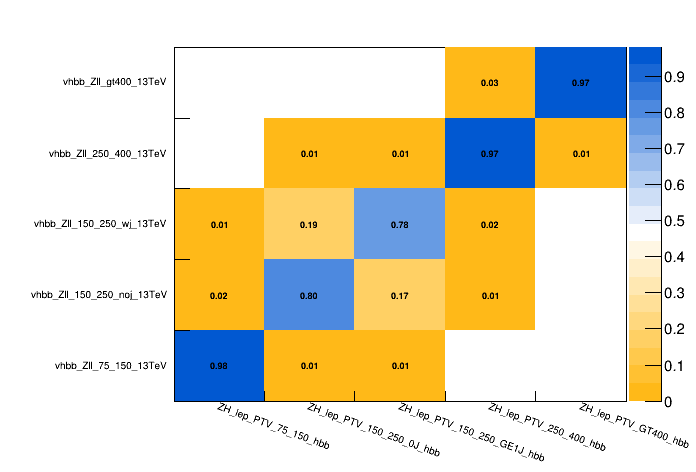
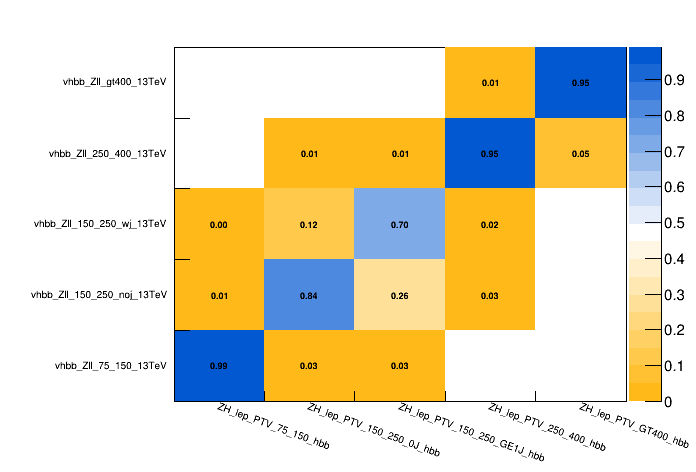
A bit more pedagogy, switching migration matrix normalizaion

diff --git a/docs/tutorial2023_unfolding/unfolding_exercise.md b/docs/tutorial2023_unfolding/unfolding_exercise.md
@@ -16,23 +16,23 @@ cd combine-unfolding-tutorial-2023
 
 The hands-on exercise is split into seven parts: 
 
-1) Simple Unfolding Experiment
+1) "Simple" Unfolding Experiment
 
 2) Producing the Migration matrix from the datacards
 
 3) Advanced Unfolding with more detector-level information and control regions
 
-4) Extract the expected intervals
+4) Extracting the expected intervals
 
-5) Impacts for multiple POIs
+5) Producing Impacts for multiple POIs
 
 6) Unfold to the generator-level quantities 
    
-7) Extract POI correlations from the FitDiagnostics output
+7) Extracting POI correlations from the FitDiagnostics output
 
  > Throughout the tutorial there are a number of questions and exercises for you to complete. These are shown in the boxes like this one. 
 
-Note that some additional information on unfolding in `Combine` are available [here](https://cms-analysis.github.io/HiggsAnalysis-CombinedLimit/part3/regularisation/), which also includes recommendations on regularisation techniques and when to use it, which is not discussed in this tutorial at all. 
+Note that some additional information on unfolding in `Combine` are available [here](https://cms-analysis.github.io/HiggsAnalysis-CombinedLimit/part3/regularisation/), which also includes some information on regularization, which is not discussed in this tutorial. 
   
 ## Analysis overview
 
@@ -43,13 +43,13 @@ The measurement is performed within the Simplified Template Cross Section (STXS)
 
 ![](figures/simplifiedXS_VH_1_2.png) 
 
-Note that for this STXS measurement, as well as measuring the cross-section as a function of the $p_{T}$ of the vector boson, the measurement includes some information on the number of additional jets and is performed over multiple different production modes, for different production processes. However, it is common to focus on a single distribution (e.g. $p_{T}$ for a signle process, e.g. $t\bar{t}$).
+Note that for this STXS measurement, as well as measuring the cross-section as a function of the $p_{T}$ of the vector boson, the measurement includes some information on the number of additional jets and is performed over multiple different production modes, for different production processes. However, it is common to focus on a single distribution (e.g. $p_{T}$) for a signle process, (e.g. $t\bar{t}$).
 
 In this tutorial we will focus on the ZH production, with the Z boson decaying to charged leptons, and Higgs boson reconstructed with the resolved $b\bar{b}$ pair. We will also use only a part of the Run 2 categories, we will not achieve the same sensitivity as the full analysis. Note that ggZH and ZH production modes are combined in the fit, since it is not possible to resolve them at this stage of the analysis. The STXS categories are defined independently of the Higgs decay channel, to streamline the combinations of the cross section measurement. 
 
 In the first part of the tutorial, we will setup a relatively simple unfolding, where there is a single detector-level bin for every generator-level bin we are trying to measure. We will then perform a blind analysis using this setup to see the expected sensitivity. 
 
-In this analysis, we use a series of datacards, one for each detector-level bin, implemented as a counting experiment, and then combining the datacards.    
+In this simple version of the analysis, we use a series of datacards, one for each detector-level bin, implemented as a counting experiment. We then combine the datacards for the full measurement. It is also possible to implement the same analysis as a single datacard, passing a histogram with each of the detector-level bins. Either method can be used, depending on which is more practical for the analysis being considered. 
 
 In the second part of the tutorial we will perform the same measurement with a more advanced setup, making use of differential distributions per generator-level bin we are trying to measure, as well as control regions. By providing this additional information to the fit, we are able to achieve a better and more robust unfolding result. After checking the expected sensitivity, we will take a look at the impacts and pulls of the nuisance parameters. Then we will unblind and look at the results of the measurement, produce generator-level plots and provide the correlation matrix for our measured observables.
 
@@ -82,7 +82,7 @@ You can see the contributions from various background processes, namely Z+jets, 
 
 One of the most important stages in the analysis design, is to make sure that the detector-level categories are well-chosen to target the corresponding generator-level processes.
 
-To explicitly check the correspondance between detector- and generator-level, one can plot the contributions of each of the generator-level bins in all of the detector-level bins. You can use the script provided in the tutorial git-lab page. This script uses `CombineHarvester` to loop over detector-level bins, and get the rate at which each of the signal processes (generator-level bins) contributes to that detector-level bin; which is then used to plot the migration matrix.
+To explicitly check the correspondance between detector- and generator-level, one can plot the contributions of each of the generator-level bins in all of the detector-level bins. You can use the script provided in the tutorial git-lab page. This script uses `CombineHarvester` to loop over detector-level bins, and get the rate at which each of the signal processes (generator-level bins) contributes to that detector-level bin; which is then used to plot the migration matrix. 
 
 ```shell
 python scripts/get_migration_matrix.py counting/combined_ratesOnly.txt
@@ -90,7 +90,9 @@ python scripts/get_migration_matrix.py counting/combined_ratesOnly.txt
 ```
 ![](figures/migration_matrix_zh.png) 
 
-Now that we checked the response matrix we can attempt the maximum likelihood unfolding. We can use the `multiSignalModel` physics model available in `Combine`, which assigns a parameter of interest `poi` to a process `p` within a bin `b` using the syntax `--PO 'map=b/p:poi[init, min, max]'` to linearly scale the normalisation of this process under the POI variations. To create the workspace we can run the following command: 
+The migration matrix show the generator-level bins on the x-axis and the corresponding detector-level bins on the y-axis. The entries are normalized such that the sum of all contributions for a given generator-level bin sum up to 1. With this convention, the numbers in each bin represent the probability that an event from a given generator-level bin is reconstructed in a given detector-level bin if it is reconstructed at all within the considered bins.
+
+Now that we checked the response matrix we can attempt the maximum likelihood unfolding. We can use the `multiSignalModel` physics model available in `Combine`, which assigns a parameter of interest `poi` to a process `p` within a bin `b` using the syntax `--PO 'map=b/p:poi[init, min, max]'` to linearly scale the normalisation of this process under the parameter of interest (POI) variations. To create the workspace we can run the following command: 
 ```shell
 text2workspace.py -m 125  counting/combined_ratesOnly.txt -P HiggsAnalysis.CombinedLimit.PhysicsModel:multiSignalModel  --PO verbose --PO 'map=.*/.*ZH_lep_PTV_75_150_hbb:r_zh_75_150[1,-5,5]' --PO 'map=.*/.*ZH_lep_PTV_150_250_0J_hbb:r_zh_150_250noj[1,-5,5]'  --PO 'map=.*/.*ZH_lep_PTV_150_250_GE1J_hbb:r_zh_150_250wj[1,-5,5]' --PO 'map=.*/.*ZH_lep_PTV_250_400_hbb:r_zh_250_400[1,-5,5]' --PO 'map=.*/.*ZH_lep_PTV_GT400_hbb:r_zh_gt400[1,-5,5]' -o ws_counting.root
 ```
@@ -106,7 +108,7 @@ combineTool.py -M MultiDimFit --datacard ws_counting.root --setParameters r_zh_2
 > The `--setParameters <param>=<value>` set the initial value of parameter named <param>.
 > `--redefineSignalPOIs r_zh_75_150,r_zh_150_250noj,r_zh_150_250wj,r_zh_250_400,r_zh_gt400` set the POIs to the comma-separated list, instead of the default one `r`.
 
-While the uncertainties on the POI can be extracted in multiple ways, the most robust way is to run the likelihood scans for a POI corresponding to each generator-level bin, it allows you to spot discontinuities in the likelihood shape in case of problems with the fit or the model. 
+While the uncertainties on the parameters of interest (POIs) can be extracted in multiple ways, the most robust way is to run the likelihood scans for a POI corresponding to each generator-level bin, it allows you to spot discontinuities in the likelihood shape in case of problems with the fit or the model. 
 
 ```shell
 combineTool.py -M MultiDimFit --datacard ws_counting.root -t -1 --setParameters r_zh_250_400=1,r_zh_150_250noj=1,r_zh_75_150=1,r_zh_150_250wj=1,r_zh_gt400=1 --redefineSignalPOIs r_zh_75_150,r_zh_150_250noj,r_zh_150_250wj,r_zh_250_400,r_zh_gt400 --algo=grid --points=100 -P r_zh_75_150 --floatOtherPOIs=1 -n scan_r_zh_75_150
@@ -160,7 +162,9 @@ combineTool.py -M MultiDimFit -d ws_full.root --setParameters r_zh_250_400=1,r_z
 ```
 > The option `--X-rtd FAST_VERTICAL_MORPH` is added here and for all `combineTool.py -M MultiDimFit ...` to speed up the minimisation. 
 
-> The job submission is handled by the `CombineHarvester`, the combination of options `--job-mode condor --task-name scans_zh  --split-points 1 --generate P:n::r_zh_gt400,r_zh_gt400:r_zh_250_400,r_zh_250_400:r_zh_150_250wj,r_zh_150_250wj:r_zh_150_250noj,r_zh_150_250noj:r_zh_75_150,r_zh_75_150` will submit the jobs to HTCondor for POI. You can add `--dry-run` option to create the submissions files first and check them, and then submit the jobs with `condor_submit condor_scans_zh.sub`. 
+> The job submission is handled by the `CombineHarvester`, the combination of options `--job-mode condor --task-name scans_zh  --split-points 1 --generate P:n::r_zh_gt400,r_zh_gt400:r_zh_250_400,r_zh_250_400:r_zh_150_250wj,r_zh_150_250wj:r_zh_150_250noj,r_zh_150_250noj:r_zh_75_150,r_zh_75_150` will submit the jobs to HTCondor for each POI. 
+> The `--generate` option is is being used to automatically generate jobs attaching the options `-P <POI> -n <name>` with each of the pairs of values `<POI>,<name>` specified between the colons.
+> You can add `--dry-run` option to create the submissions files first and check them, and then submit the jobs with `condor_submit condor_scans_zh.sub`. 
 
 > If you are running the tutorial from a cluster where HTCondor is not available you can also submit the jobs to the slurm system, just change the `--job-mode condor` to `--job-mode slurm`. 
 
